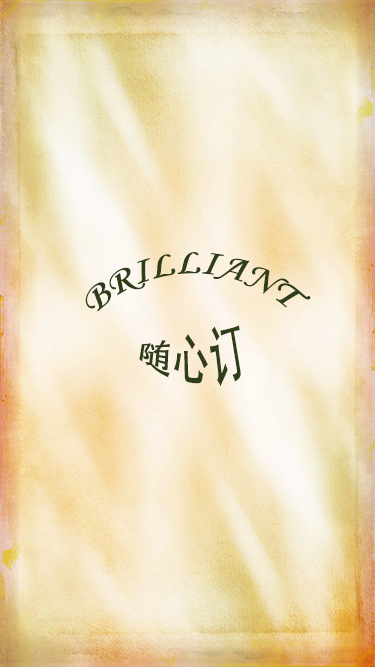
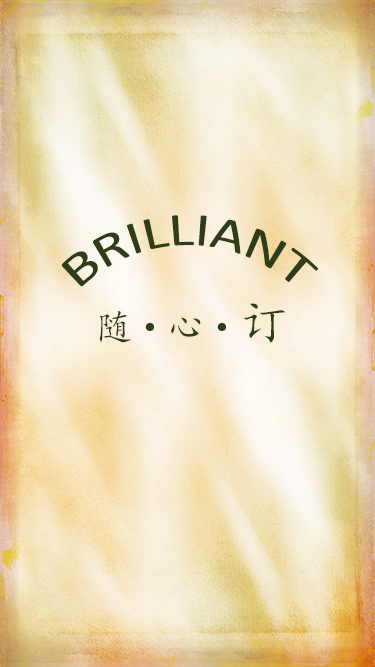
修改了 初始界面的图片
修改了welcome图片

Changed region(s): [[0.1467, 0.2999, 0.8507, 0.5997]]

diff --git a/brilliantMilk/ViewController.m b/brilliantMilk/ViewController.m
@@ -15,7 +15,7 @@
 
 - (void)viewDidLoad {
     [super viewDidLoad];
-    [NSTimer scheduledTimerWithTimeInterval:5. target:self selector:@selector(poptoCheckView:) userInfo:nil repeats:NO];
+    [NSTimer scheduledTimerWithTimeInterval:5.0 target:self selector:@selector(poptoCheckView:) userInfo:nil repeats:NO];
     // Do any additional setup after loading the view from its nib.
 }
 -(void)poptoCheckView:(NSTimer*)timer{
